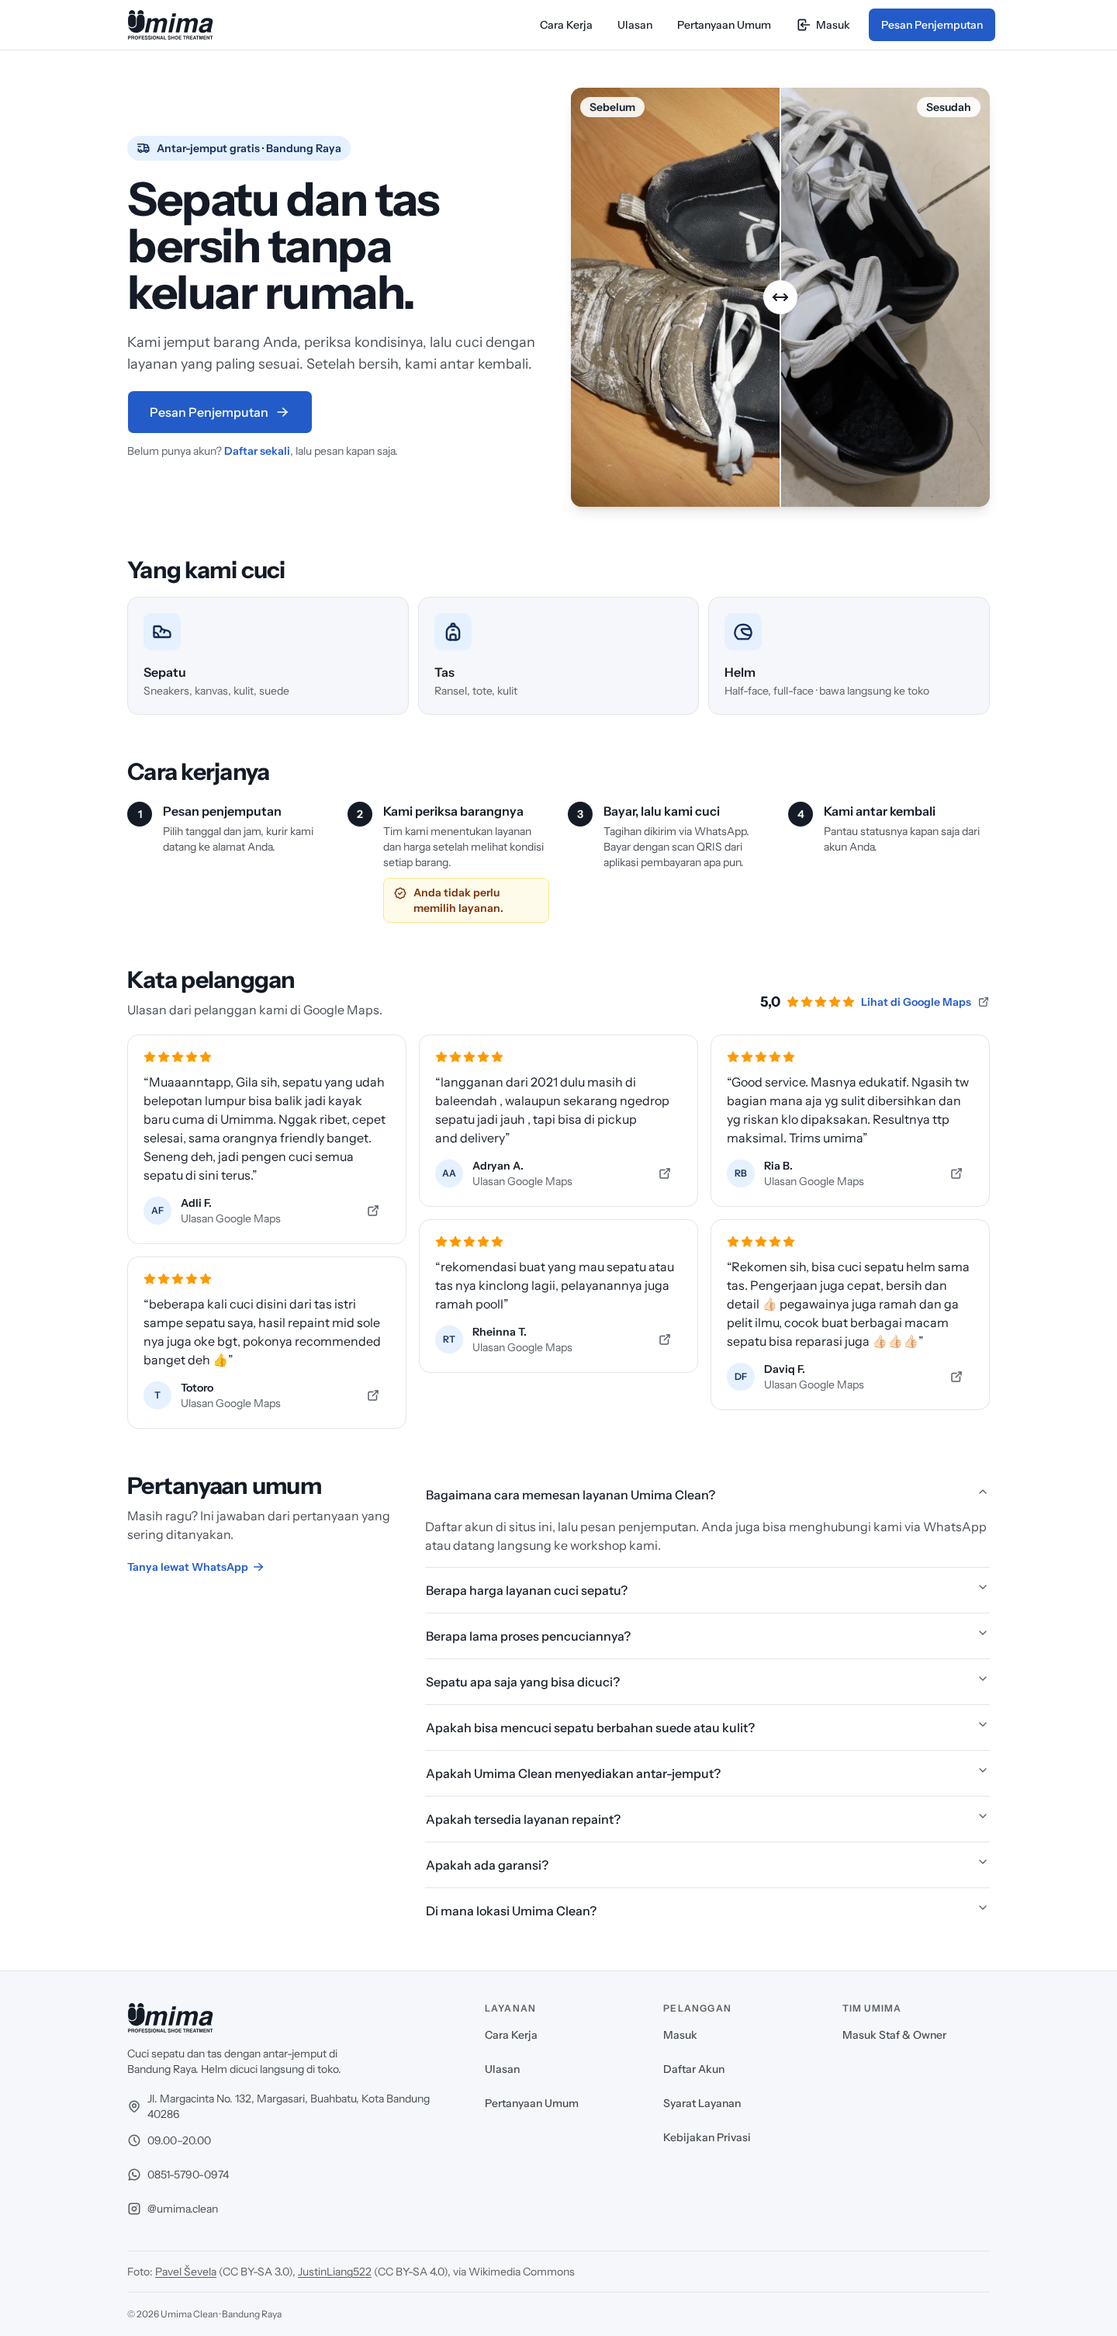
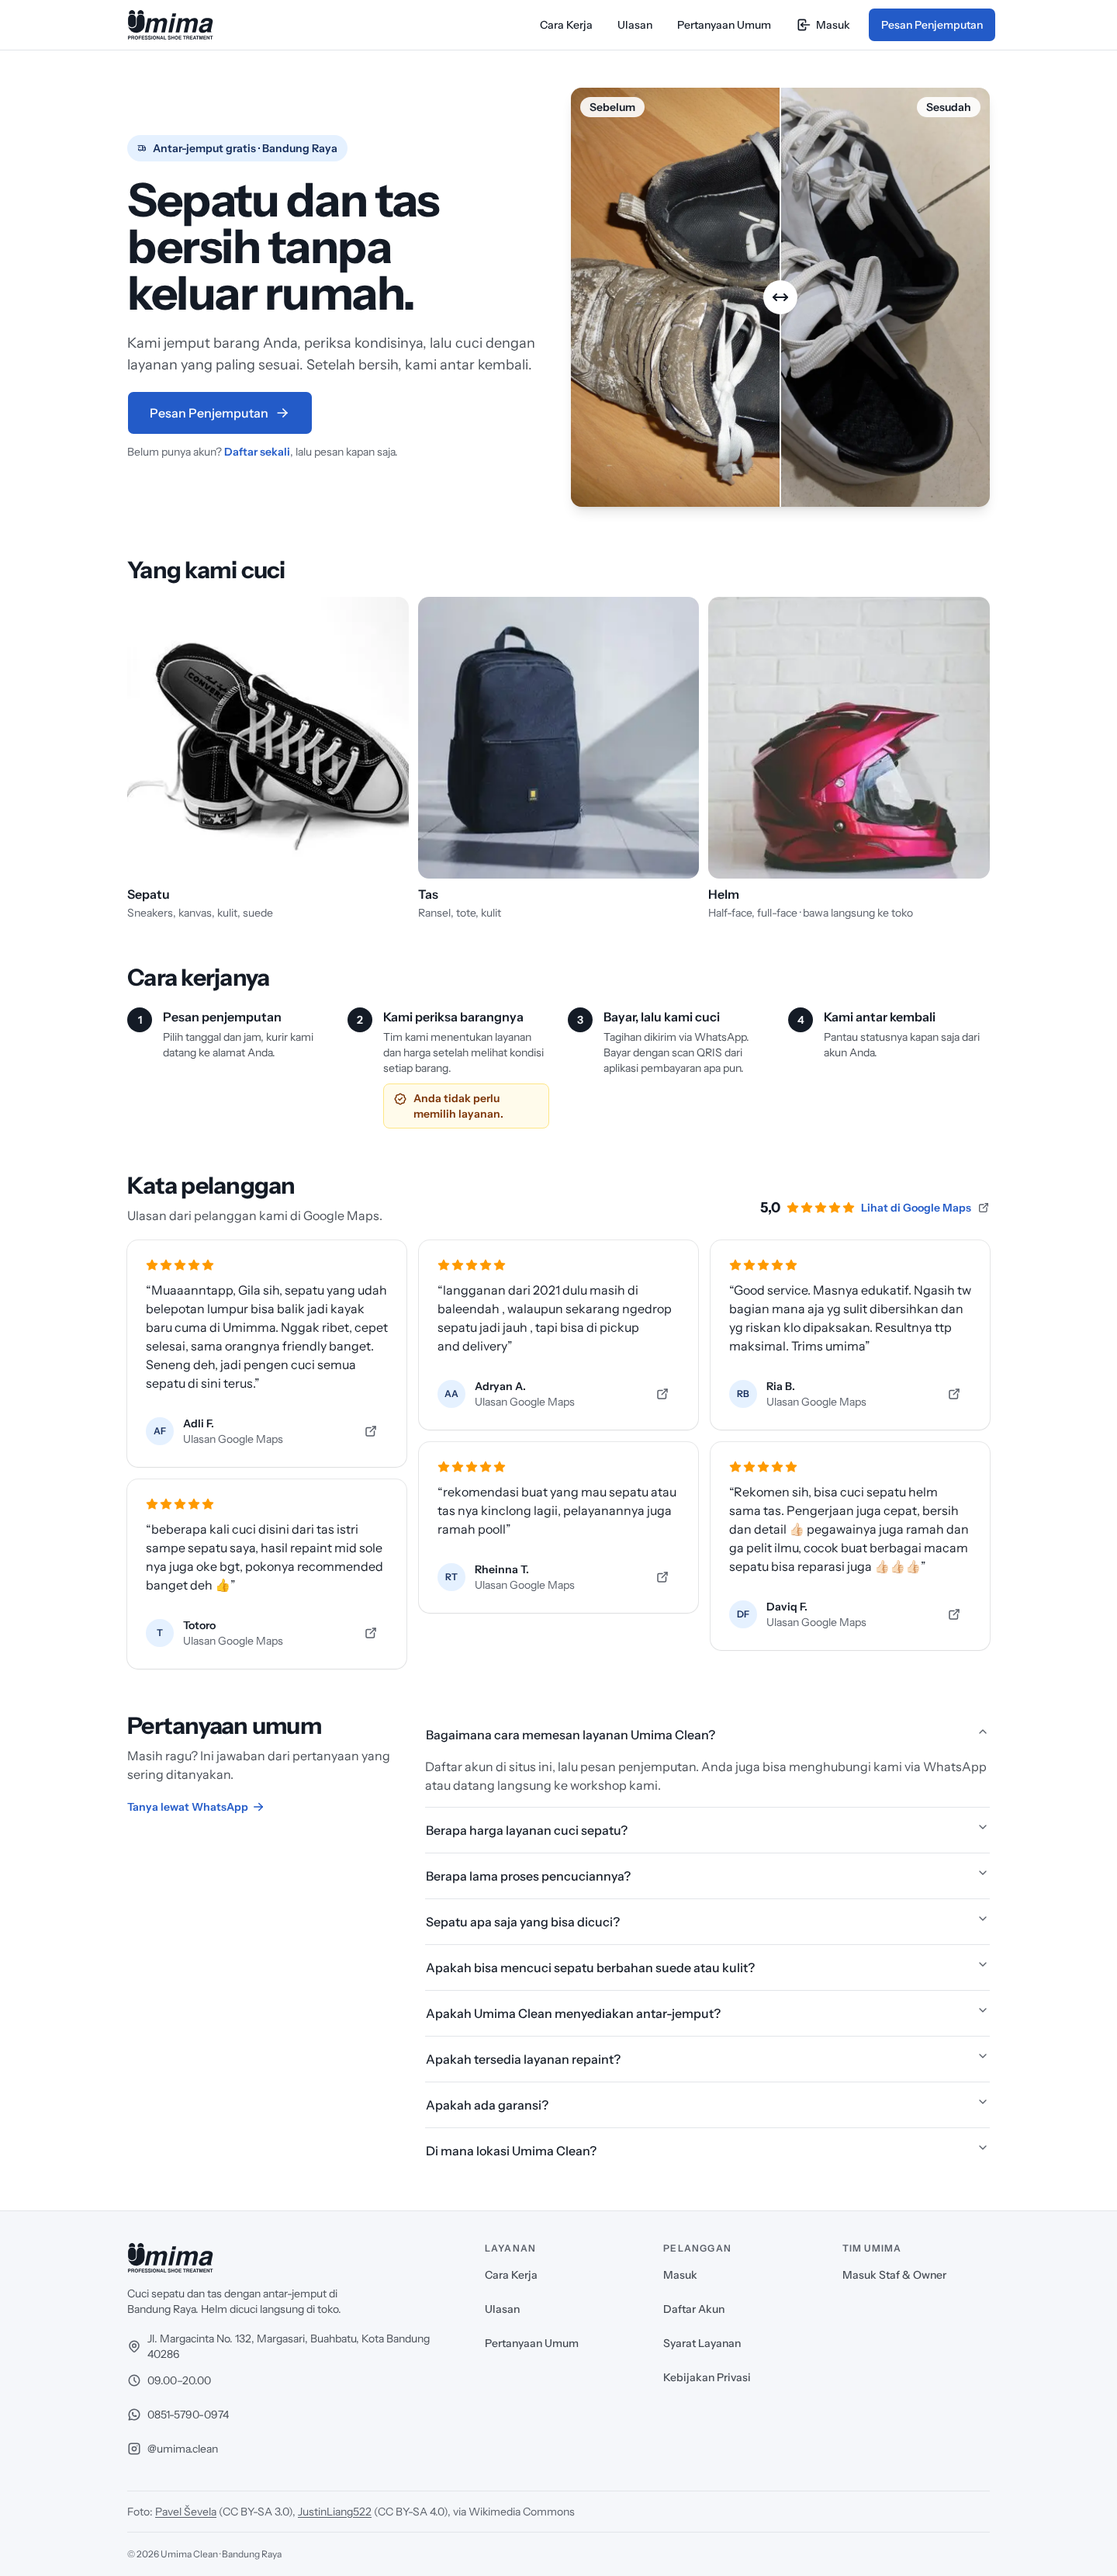
docs(evidence): add patch 0.1.2 verification and updated landing screenshots
Include clean-run output logs, zero axe violations proof, and updated landing page screenshots at 360, 390, and 1440 px.

diff --git a/docs/evidence/M1c/PATCH-0.1.2.md b/docs/evidence/M1c/PATCH-0.1.2.md
@@ -1,0 +1,229 @@
+# Evidence: Patch 0.1.2
+
+Date: 2026-11-15. Patch release for version **0.1.2**.
+
+## 1. Summary of Changes
+
+1. **Item Photos Attribution (D39, DEPENDENCIES §4)**:
+   - Documented the "Yang kami cuci" item photos as Unsplash stock photos under the Unsplash License (free commercial and non-commercial use, no attribution required).
+   - Identified the shoes photo: "Black and white converse all star low top sneakers" by Peter Olexa (@deeezyfree), <https://unsplash.com/photos/black-and-white-converse-all-star-low-top-sneakers-7a785ad3a291>.
+   - Recorded bag and helmet as "source page not recorded".
+   - Rewrote D39 in `docs/ARCHITECTURE.md`. Removed the duplicated photo row in `docs/DEPENDENCIES.md` and the duplicated D43 row in `docs/ARCHITECTURE.md`.
+
+2. **Removal of Prohibited Documentation Terms**:
+   - Removed all references to archive repositories, thesis context, or earlier implementations in `docs/ARCHITECTURE.md`, `docs/DEPENDENCIES.md`, and `CHANGELOG.md`.
+
+3. **Privacy Policy Clarification (GUEST-2)**:
+   - In `inertia/pages/legal/privacy.tsx`, removed "secara anonim" and restored Google Maps / Waze as an explicit list item under "Pihak lain yang menerima data".
+   - Explicitly clarified that when staff opens navigation, the map applications receive only destination coordinates, never customer name, phone number, or order details.
+
+4. **shadcn Component Usage & Conventions**:
+   - Preserved `Card` styling and semantic slots (`CardContent`, `CardFooter`) in `ReviewCard` (`reviews_section.tsx`) without class overrides cancelling its appearance (`border-0`, `bg-transparent`, `p-0`, `shadow-none`, `ring-0`).
+   - Refactored `laundry_items.tsx` to use semantic `<figure>` and `<figcaption>` instead of `Card`.
+   - Added convention in `docs/CONVENTIONS.md` §9 mandating using shadcn components for what they are with minimal overrides, avoiding class-by-class cancellations.
+
+5. **Reviews Carousel Refactoring**:
+   - Replaced arbitrary `basis-[84%]` with scale value `basis-5/6`.
+   - Added braces to all `if` blocks.
+   - Removed unnecessary `queueMicrotask` workaround by invoking `onSelect()` directly inside `useEffect` upon Embla API availability.
+   - Removed what-comments.
+
+6. **Zero Lint Warnings**:
+   - Upgraded `tailwind-canonical-classes/tailwind-canonical-classes` from `'warn'` to `'error'` in `eslint.config.js` (recorded in ARCHITECTURE D44).
+
+7. **SETUP.md Zero-to-Running Reproducibility**:
+   - Removed premature `node ace db:seed` step.
+   - Added `node ace generate:key` to Step 2.
+   - Added `npx playwright install chromium` to Step 1.
+   - Documented Protomaps build selection and availability in Step 5.
+   - Consolidated map execution commands into `docs/SETUP.md`, with `docs/ARCHITECTURE.md` §6 explaining the pipeline and linking to `SETUP.md`.
+
+---
+
+## 2. Screens
+
+Screenshots of the landing page captured fresh at 360 px, 390 px (deviceScaleFactor: 2), and 1440 px (deviceScaleFactor: 1):
+
+| Viewport | Screenshot Link | Dimensions |
+| :--- | :--- | :--- |
+| Mobile 360 px | [beranda-360.png](beranda-360.png) | 720 × 9142 |
+| Mobile 390 px | [beranda-390.png](beranda-390.png) | 780 × 8986 |
+| Desktop 1440 px | [beranda-1440.png](beranda-1440.png) | 1440 × 3010 |
+
+---
+
+## 3. Axe Accessibility Audit (Landing Page)
+
+Audit executed using `@axe-core/playwright` across tags `wcag2a`, `wcag2aa`, `wcag21a`, `wcag21aa`:
+
+```
+[Axe] Landing violations: 0
+[Axe] Landing passes: 29
+```
+
+Zero accessibility violations found on `/`.
+
+---
+
+## 4. Full SETUP.md Proof from Clean Clone
+
+The following commands were executed in an empty scratch directory (`/tmp/clean-test/umimaclean`) with no `node_modules`, no pre-existing `.env`, and freshly created databases (`umimaclean_clean_dev` and `umimaclean_clean_test`):
+
+### Step 1: Install dependencies and Playwright browser
+
+```sh
+$ npm install
+added 850 packages, and audited 857 packages in 9s
+297 packages are looking for funding
+  run `npm fund` for details
+31 vulnerabilities (2 low, 29 moderate)
+
+$ npx playwright install chromium
+BEWARE: your OS is not officially supported by Playwright; downloading fallback build for ubuntu24.04-x64.
+```
+
+### Step 2: Environment configuration & generate key
+
+```sh
+$ cp .env.example .env
+$ node ace generate:key
+DONE:    add APP_KEY to .env
+```
+
+### Step 3: Database creation and extension enablement
+
+```sh
+$ podman compose --profile tools run --rm -T psql -d postgres
+CREATE DATABASE umimaclean_clean_dev TEMPLATE template0;
+CREATE DATABASE umimaclean_clean_test TEMPLATE template0;
+\connect umimaclean_clean_dev
+CREATE EXTENSION IF NOT EXISTS postgis;
+CREATE EXTENSION IF NOT EXISTS pg_trgm;
+CREATE EXTENSION IF NOT EXISTS unaccent;
+\connect umimaclean_clean_test
+CREATE EXTENSION IF NOT EXISTS postgis;
+CREATE EXTENSION IF NOT EXISTS pg_trgm;
+CREATE EXTENSION IF NOT EXISTS unaccent;
+```
+
+### Step 4: Run migrations
+
+```sh
+$ node ace migration:run
+[ info ] Upgrading migrations version from "1" to "2"
+❯ migrating database/migrations/1761885935168_create_users_table
+❯ migrated database/migrations/1761885935168_create_users_table
+
+Migrated in 93 ms
+❯ Scanned "postgres" database and found 1 tables
+❯ Scanned table users
+❯ Creating schema classes for scanned tables
+[ success ] Schema classes generated (19 ms)
+```
+
+### Step 5: Verification Suite (§3 of SETUP.md)
+
+#### `npm run lint`
+
+```sh
+$ npm run lint
+
+> umimaclean@0.1.2 lint
+> eslint .
+```
+*(Exited with code 0, 0 errors, 0 warnings)*
+
+#### `npm run typecheck`
+
+```sh
+$ npm run typecheck
+
+> umimaclean@0.1.2 typecheck
+> tsc --noEmit && tsc --noEmit --project inertia/tsconfig.json
+```
+*(Exited with code 0, 0 errors)*
+
+#### `npm test`
+
+```sh
+$ npm test
+
+> umimaclean@0.1.2 test
+> node ace test
+
+[ info ] loading hooks...
+[ info ] generating indexes...
+[ info ] codegen: created 6 file(s)
+[ info ] booting application to run tests...
+[ info ] Upgrading migrations version from "1" to "2"
+❯ Executed 1 migrations (390 ms)
+
+unit / AuthService (tests/unit/auth_service.spec.ts)
+  ✔ registers a new user account with hashed password (21.72ms)
+  ✔ verifies credentials successfully for valid user (17.09ms)
+  ✔ fails verification for incorrect password (12.02ms)
+  ✔ resolves RegisterController and SessionController with injected AuthService from container (2.62ms)
+
+unit / One light theme (tests/unit/theme.spec.ts)
+  ✔ the shadcn components carry no dark: classes (2.54ms)
+  ✔ app.css defines no dark theme (0.41ms)
+
+functional / Authentication Routes (tests/functional/auth.spec.ts)
+1:09:42 AM [vite] (ssr) connected.
+1:09:43 AM [vite] (client) [optimizer] bundling dependencies...
+  ✔ POST /signup registers user and redirects to dashboard (1s)
+  ✔ POST /login authenticates valid credentials and redirects to dashboard (201.71ms)
+  ✔ POST /logout terminates user session and redirects to login (25.51ms)
+
+functional / Search engines (GUEST-3) (tests/functional/seo.spec.ts)
+  ✔ robots.txt keeps signed-in and development pages out and points to the sitemap (7.33ms)
+  ✔ the sitemap lists the public pages only (4.92ms)
+  ✔ a public page arrives server-rendered with its title, description and Open Graph tags (15.88ms)
+
+browser / Authentication Browser Flow (tests/browser/auth_flow.spec.ts)
+  ✔ home page renders and displays authentication entry points (482.88ms)
+  ✔ login page displays login form with credentials fields (468.05ms)
+  ✔ signup page displays registration form with all required fields (384.18ms)
+  ✔ user logs in through browser form and lands on dashboard (490ms)
+  ✔ sign-in also works before the page scripts run (server-rendered form) (195.04ms)
+
+browser / Look and feel (tests/browser/look.spec.ts)
+  ✔ / loads nothing from another host, in Indonesian, with one main heading (1s)
+  ✔ /syarat loads nothing from another host, in Indonesian, with one main heading (1s)
+  ✔ /privasi loads nothing from another host, in Indonesian, with one main heading (1s)
+  ✔ /login loads nothing from another host, in Indonesian, with one main heading (1s)
+  ✔ /signup loads nothing from another host, in Indonesian, with one main heading (987.46ms)
+  ✔ /_preview/staf loads nothing from another host, in Indonesian, with one main heading (997.03ms)
+  ✔ /_preview/admin loads nothing from another host, in Indonesian, with one main heading (1s)
+  ✔ /_preview/alur loads nothing from another host, in Indonesian, with one main heading (1s)
+  ✔ /_preview/cetak loads nothing from another host, in Indonesian, with one main heading (1s)
+  ✔ /_preview/404 loads nothing from another host, in Indonesian, with one main heading (1s)
+  ✔ /_preview/500 loads nothing from another host, in Indonesian, with one main heading (1s)
+  ✔ stays light when the device prefers a dark theme (318.64ms)
+  ✔ the first Tab press shows a visible focus ring (961.02ms)
+  ✔ / has no WCAG 2.1 AA violations (axe) (2s)
+  ✔ /syarat has no WCAG 2.1 AA violations (axe) (2s)
+  ✔ /privasi has no WCAG 2.1 AA violations (axe) (2s)
+  ✔ /login has no WCAG 2.1 AA violations (axe) (1s)
+  ✔ /signup has no WCAG 2.1 AA violations (axe) (1s)
+  ✔ /_preview/404 has no WCAG 2.1 AA violations (axe) (2s)
+  ✔ /_preview/500 has no WCAG 2.1 AA violations (axe) (2s)
+  ✔ / does not scroll sideways at 360 px (1s)
+  ✔ /syarat does not scroll sideways at 360 px (949.23ms)
+  ✔ /privasi does not scroll sideways at 360 px (923.88ms)
+  ✔ /login does not scroll sideways at 360 px (984.59ms)
+  ✔ /signup does not scroll sideways at 360 px (918.6ms)
+  ✔ /_preview/staf does not scroll sideways at 360 px (931.8ms)
+  ✔ /_preview/admin does not scroll sideways at 360 px (1s)
+  ✔ /_preview/alur does not scroll sideways at 360 px (929.71ms)
+  ✔ /_preview/cetak does not scroll sideways at 360 px (958.01ms)
+  ✔ /_preview/404 does not scroll sideways at 360 px (1s)
+  ✔ /_preview/500 does not scroll sideways at 360 px (1s)
+  ✔ the before and after slider moves with the keyboard (472.19ms)
+❯ Reverted 1 migrations (15 ms)
+
+ PASSED 
+
+Tests  49 passed (49)
+ Time  39s
+```
